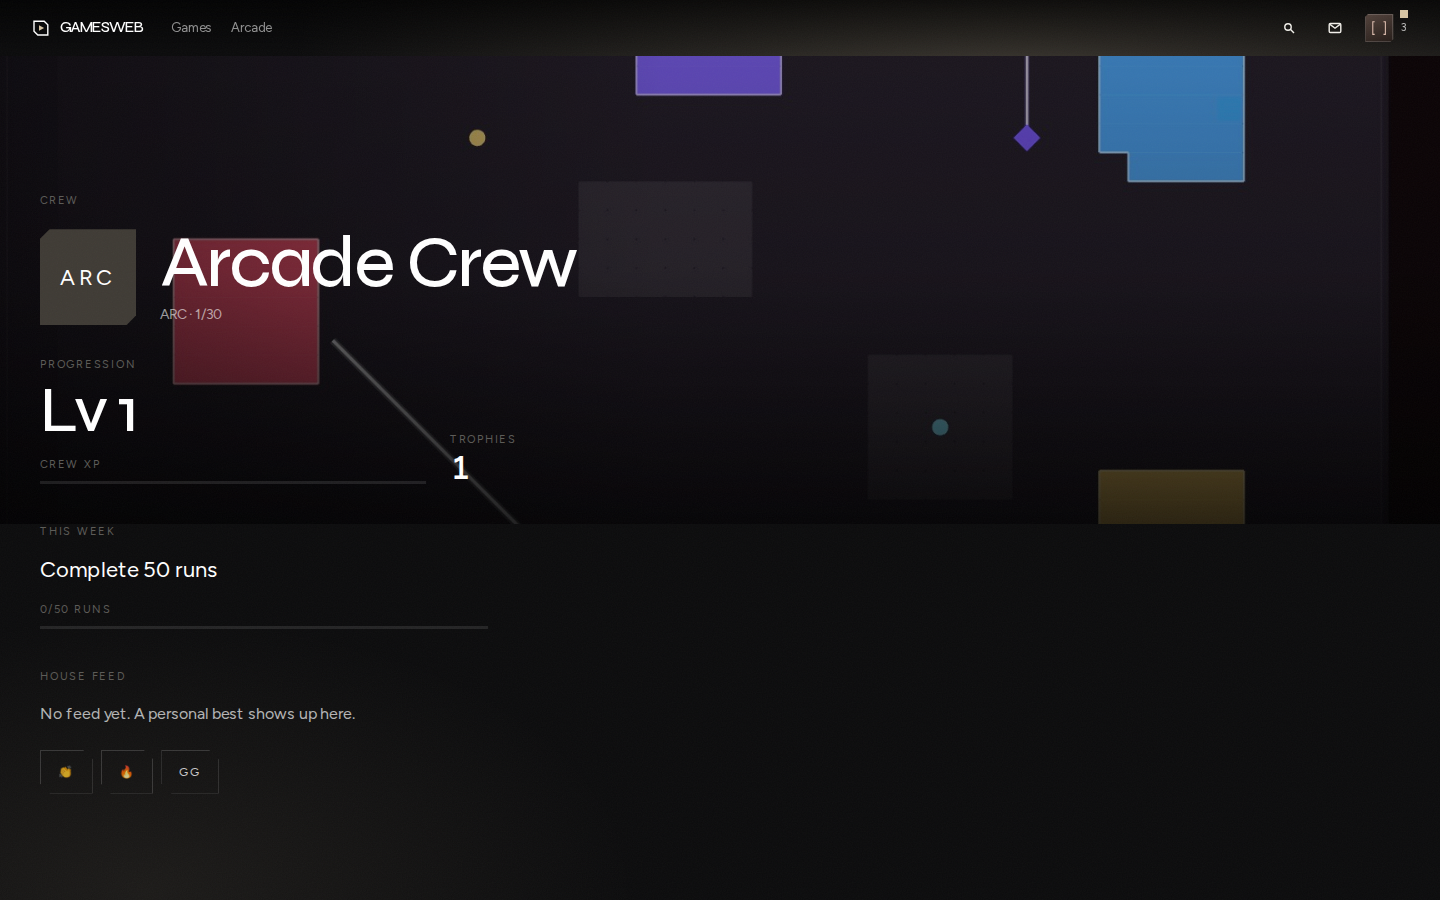
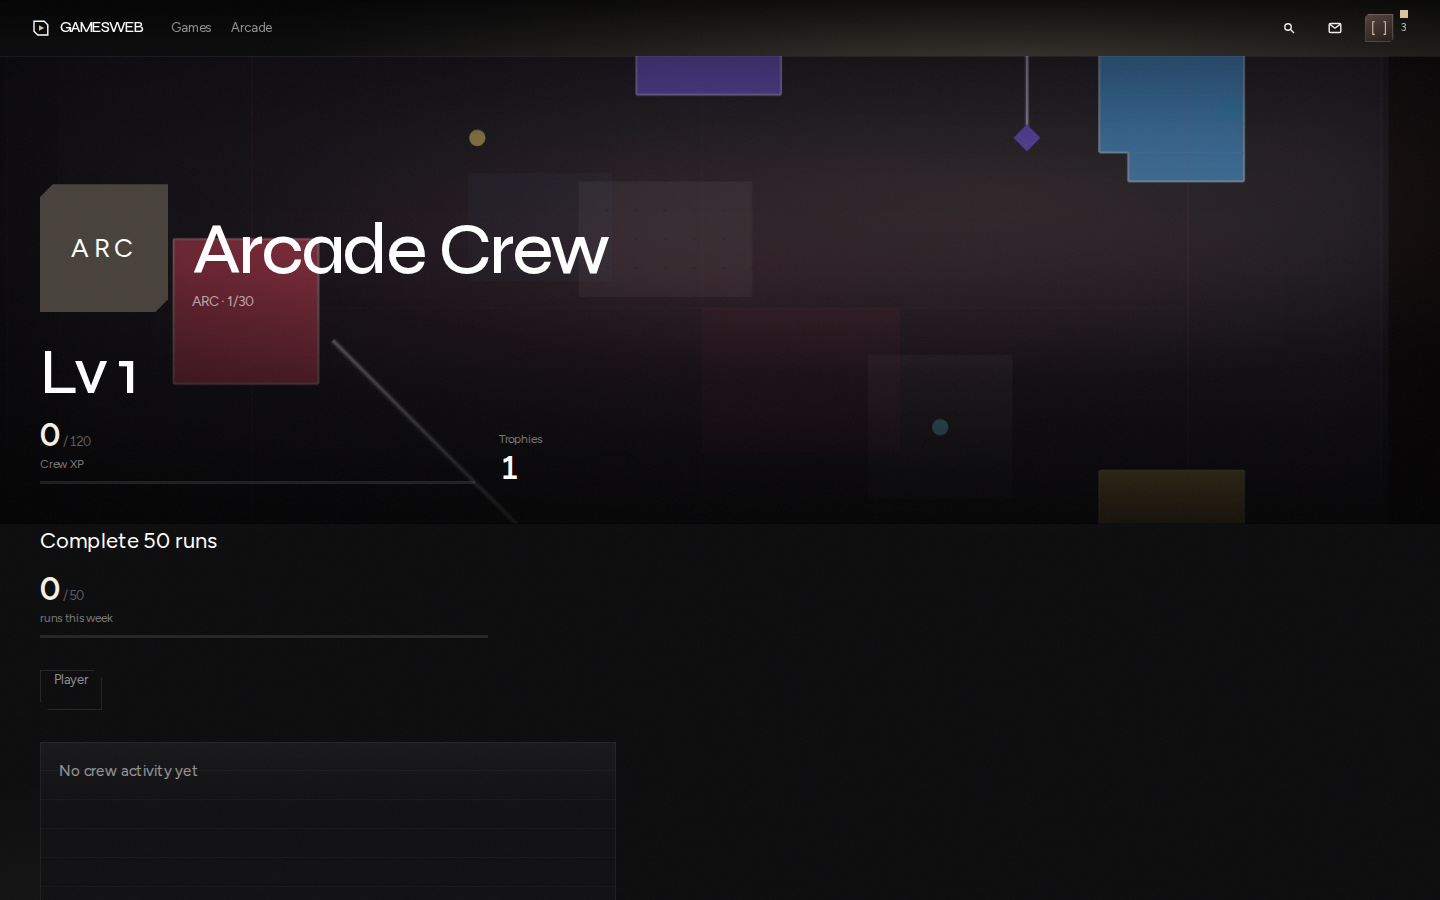
Record the art-direction polish matrix and reviewed visual baselines.
Stamp-ready QA after authored platform scenes, denser in-camera worlds, and the Profile / Friends / Leaderboards / Achievements finish pass.

diff --git a/games/neon-drift/src/scenes/render.ts b/games/neon-drift/src/scenes/render.ts
@@ -184,7 +184,7 @@ export function drawWorld(
 
 function drawTrackside(g: Phaser.GameObjects.Graphics, def: TrackDef, samples: TrackSample[], quality: string) {
   const theme = def.theme;
-  const apron = def.id === "foundation" ? 0x0c1822 : def.id === "velocity" ? 0x10161e : 0x14161c;
+  const apron = def.id === "foundation" ? 0x1a3040 : def.id === "velocity" ? 0x182432 : 0x1c2028;
   for (let i = 0; i < samples.length; i += 1) {
     const s = samples[i];
     const n = samples[(i + 1) % samples.length];
@@ -197,9 +197,9 @@ function drawTrackside(g: Phaser.GameObjects.Graphics, def: TrackDef, samples: T
     const dist = s.width * 0.5 + 78;
     const x = s.x + s.nx * dist;
     const y = s.y + s.ny * dist;
-    const bw = 42 + (i % 3) * 18;
-    const bh = 64 + (i % 5) * 28;
-    g.fillStyle(theme.building, 0.96);
+    const bw = 56 + (i % 3) * 22;
+    const bh = 88 + (i % 5) * 36;
+    g.fillStyle(def.id === "foundation" ? 0x2a2230 : theme.building, 0.98);
     g.fillRect(x - bw / 2, y - bh / 2, bw, bh);
     g.fillStyle(theme.accent, 0.16 + (i % 4 === 0 ? 0.12 : 0));
     g.fillRect(x - bw / 2 + 8, y - bh / 2 + 10, 8, 8);

diff --git a/docs/ART-DIRECTION-POLISH-CLOSEOUT.md b/docs/ART-DIRECTION-POLISH-CLOSEOUT.md
@@ -5,100 +5,124 @@
 - Branch: `cursor/art-direction-polish-c08e`
 - Base: `cursor/platform-visual-closeout-c08e` @ `327e7865d6ce1466515dea7d6d4fd96f3e967a01`
 - SHA: *(stamped after the matrix commit)*
+- PR: https://github.com/kazkazmdk/gamesweb/pull/15
 
 Aucun merge. Home n’a pas été redesigné. Pas de nouvelle marque, pas de nouveau design system.
 
-## CTA semantics
-
-Trois familles seulement. Pas cinq couleurs.
-
-| Famille | Traitement | Exemples |
-| --- | --- | --- |
-| **Platform** | Crème `#f3f1ec`, forme chanfreinée, contraste élevé | Invite, Copy link, Create party, Find a rival, Share challenge |
-| **Game** | `--accent` du jeu actif | Play / Continue, Retry, Play again, Continue Endless |
-| **Event / competitive** | `--accent` de l’événement ou du jeu courant | Enter today, Enter stage, Race this round, Answer, Rematch |
-
-`ChamferButton` `tone="platform"` = crème. `tone="primary"` = accent courant (jeu ou event via `useAccent`). Ghost / quiet restent secondaires.
-
 ## Screens changed
 
-Profile, Friends, Leaderboards, Achievements, Arcade, Daily, Grand Prix, Hub, Crew, Inbox, Party, Challenges, Results, Pause, Settings (nav only). Huit mondes de jeu. Home inchangé (mêmes JPG / même layout).
+Profile, Friends, Leaderboards, Achievements, Arcade, Daily, Grand Prix, Hub, Crew, Inbox, Party, Challenges, Results, Pause, Settings (focus / nav only). Huit mondes de jeu. Home inchangé (mêmes JPG / même layout).
+
+Les fonds plateforme (Arcade, Hub, Daily, GP, Profile, LB, Crew) utilisent `PlatformScene` (SVG auteur). Home continue d’utiliser `GameArt` JPG.
 
 ## Exact design errors fixed
 
 ### Profile
 
-- `SETTINGS` orphelin → bouton icône géométrique attaché à la carte (`aria-label="Settings"`).
-- `LEVEL PROGRESS` vide → barre réelle dans la carte: `Lv n`, XP current / next, marqueur next level.
-- Demi-écran mort compressé (`min-h` 200/240 au lieu de 280/360).
-- Carte: cadre avatar, profondeur de backdrop, hiérarchie chiffre > label.
+- `SETTINGS` orphelin → bouton icône géométrique attaché en haut à droite (`aria-label="Settings"`).
+- `LEVEL PROGRESS` vide → barre réelle dans la carte: `Lv n`, `n / m XP`, marqueur `Next · Lv n`.
+- Demi-écran mort compressé (`min-h` 200/240).
+- Carte: cadre avatar, scène Neon auteur, hiérarchie chiffre > label.
 
 ### Friends
 
 - Empty state n’est plus un rectangle géant + titre doublon.
-- Objet social: identité + siège vide + VS + ce que l’amitié ouvre (Challenge / Compare / Rival / Activity) + invite. Aucune donnée fake.
+- Objet social compact: identité + siège vide + VS + Challenge / Compare / Rival / Activity + invite crème.
+- Aucune donnée fake.
 
 ### Leaderboards
 
-- Sélecteur jeu: tiles 10.5×6.5rem + nom visible + frame de sélection.
-- Mode / board: chips géométriques, plus des underlines.
+- Sélecteur jeu: tiles 12.75×7.75rem (10rem mobile) + nom + scène auteur + frame de sélection.
+- Mode / board: chips géométriques.
 - 1 score réel: podium honnête « Set the pace. » Pas de joueurs inventés.
-- ≥3: podium avec échelle de rang.
 
 ### Achievements
 
-- Featured Beacon n’est plus un bloc texte dans un vide 3-col.
-- Hero trophy + plinthe + motif, puis étagère à slots, filtres secondaires.
-- Grille: rangées trophée, pas des cartes catalogue.
+- Featured Beacon ancré à gauche: plinthe, icône matériau, silhouette trophée, rail d’étagère.
+- Plus un bloc texte dans un vide 3 colonnes.
+- Filtres en chips secondaires. Grille en rangées trophée.
+
+## CTA semantics
+
+Trois familles seulement.
+
+| Famille | Traitement | Exemples |
+| --- | --- | --- |
+| **Platform** | Crème `#f3f1ec`, chanfrein | Invite, Copy link, Create party, Find a rival, Share challenge, Play (profile empty) |
+| **Game** | `--accent` du jeu actif | Play / Continue, Retry, Play again, Continue Endless |
+| **Event / competitive** | `--accent` événement / jeu courant | Enter today, Enter stage, Race this round, Answer, Rematch |
+
+Score 0: état `Attempt`, CTA dominant = Retry (jeu), secondaire = Share challenge (platform). Pas de célébration.
 
 ## Art direction improvements
 
 | Surface | Polish |
 | --- | --- |
-| Arcade | Atmosphere / grain / vignette / enrichissement de scène sur le hero existant. Label Progression retiré. |
-| Hub | Layout intact. Genre en texte discret. Même traitement matériel sur l’art. |
-| Daily / GP | Route plus contrastée (done / current / locked). Kickers meta retirés. |
-| Results | Count-up, état 0 silencieux (`Attempt`), CTA jeu + share platform. |
-| Pause | Rail matériel, hint clavier, divider. Resume toujours sélectionné. |
-| Crew | Emblème plus grand, strip membres, zone activité en arène (pas de faux feed). |
+| Arcade | Scène Swarm auteur (arène, tours, vaisseau) à la place de la capture gameplay. Grain / haze / inner edge. |
+| Hub | Layout intact. Route + skyline + eau + lampes, plus une route vide. |
+| Daily / GP | Mêmes routes; tuiles = scènes auteur; current spotlight conservé. |
+| Results | Count-up, Attempt silencieux, Retry / Share. |
+| Pause | Rail, hint Enter / ↑↓ / Esc, jeu visible. |
+| Crew | Emblème, scène territoire, arène d’activité (pas de faux feed). |
 | Inbox / Party | Labels réduits. CTA platform. |
 
-Matérialité: inner edge, grain, haze lié à l’accent, pas de glassmorphism global.
+Matérialité: inner edge, grain, haze d’accent. Pas de glassmorphism global.
 
 ## Games
 
 | Jeu | World | Clarity |
 | --- | --- | --- |
-| Neon Drift | Bordures, panneaux, overpass, skyline plus dense, lampes / chevrons conservés | HOLD → COMBO → BANK intact |
-| Velocity Run | Shaft / corridor / ascent distincts, foreground silhouettes | Contraste player / hazard inchangé |
-| Knockout | Usine: pipes, vents, warning, plateformes ancrées | Obstacles lisibles |
-| Territory | Fill + lueur de bord + sweep de capture | Grille toujours lisible |
-| Swarm | Sol, structures lointaines, trails plus nets | Joueur jamais perdu |
-| Crowd | Masse + ombre de contact plus large | Camera pack-aware intacte |
-| Pocket | Cadre / feutre / profondeur / spectateurs discrets | Playfield libre |
-| Sky Stack | Halo / ombre de dalle / ciel | Simplicité conservée |
+| Neon Drift | Tablier visible, buildings trackside dans le cadre caméra, zoom un peu plus large, lampes / gate / HOLD DRIFT | HOLD → COMBO → BANK intact |
+| Velocity Run | Shaft / immeubles plus contrastés, bande énergie | Player / hazard inchangés |
+| Knockout | Usine lisible: colonnes, pipes, lumières, sol | Obstacles ancrés |
+| Territory | Plateau cadré, damier de lecture, glow de capture | Grille toujours lisible |
+| Swarm | Anneaux + dalles + tours près du joueur | Joueur jamais perdu |
+| Crowd | Masse + ombre de contact | Camera pack-aware intacte |
+| Pocket | Cadre / feutre / profondeur | Playfield libre |
+| Sky Stack | Halo / ombre / ciel | Simplicité conservée |
 
 ## Performance
 
-Mesuré au `next build` de cette passe (à tamponner). Pas de PNG lourds, pas de lib 3D, pas de vidéo. CSS + SVG overlay + draw Phaser existant.
+`next build` après polish:
+
+| Route | Size | First Load |
+| --- | --- | --- |
+| Home `/` | 8.46 kB | 157 kB |
+| Play slug | 9.14 kB | 155 kB |
+| Shared | 102 kB | |
+
+Avant closeout visuel: Home 8.46/157, play 9.12/154, shared 102. Pas de PNG lourds, pas de lib 3D, pas de vidéo. SVG inline + draw Phaser.
 
 ## QA
 
-Tamponné après exécution.
+| Check | Result |
+| --- | --- |
+| typecheck | pass |
+| lint | pass (warning `GameArt` `<img>` préexistant) |
+| unit | 99/99 |
+| build | pass |
+| Playwright fonctionnel | 48/48 |
+| Playwright visual | 13/13 (baselines Arcade / Profile / Achievements revues) |
+| QA_MATRIX | 4/4 → `docs/qa-art-direction-polish/` (+ `before/` utile) |
 
 ## Remaining issues
 
 ### P0
 
-Vide (critères A–L).
+Vide (critères A–L traités).
 
 ### P1
 
-- Les JPG hero restent des captures gameplay: plus riches après le monde, mais ce n’est pas de l’illustration peinte.
-- Home utilise toujours ces JPG (voulu).
+- Les scènes SVG restent géométriques: plus des captures gameplay, pas de peinture.
+- Neon in-game: buildings / tablier visibles, le vide n’est plus accidentel, mais la densité Trackmania n’est pas là.
+- Velocity reste un platformer lisible plus que des landmarks mémorables.
+- Territory: plateau plus assumé, encore une grille (voulu pour la lecture).
+- Achievements: le featured est un cabinet; la liste basse reste un catalogue honnête.
+- Home utilise toujours les JPG gameplay (voulu).
 - Settings reste utilitaire.
 
 ### P2
 
-- Parallax souris non ajouté (drift CSS seulement, `prefers-reduced-motion` respecté).
-- Recapture hero JPG optionnelle si on veut aligner Home sur les nouveaux mondes.
+- Parallax souris non ajouté (drift CSS, `prefers-reduced-motion` respecté).
+- Recapture JPG Home si on veut aligner Home sur les nouveaux mondes.
+- Icônes trophées encore simples (langage géométrique unique, pas un set peint).
